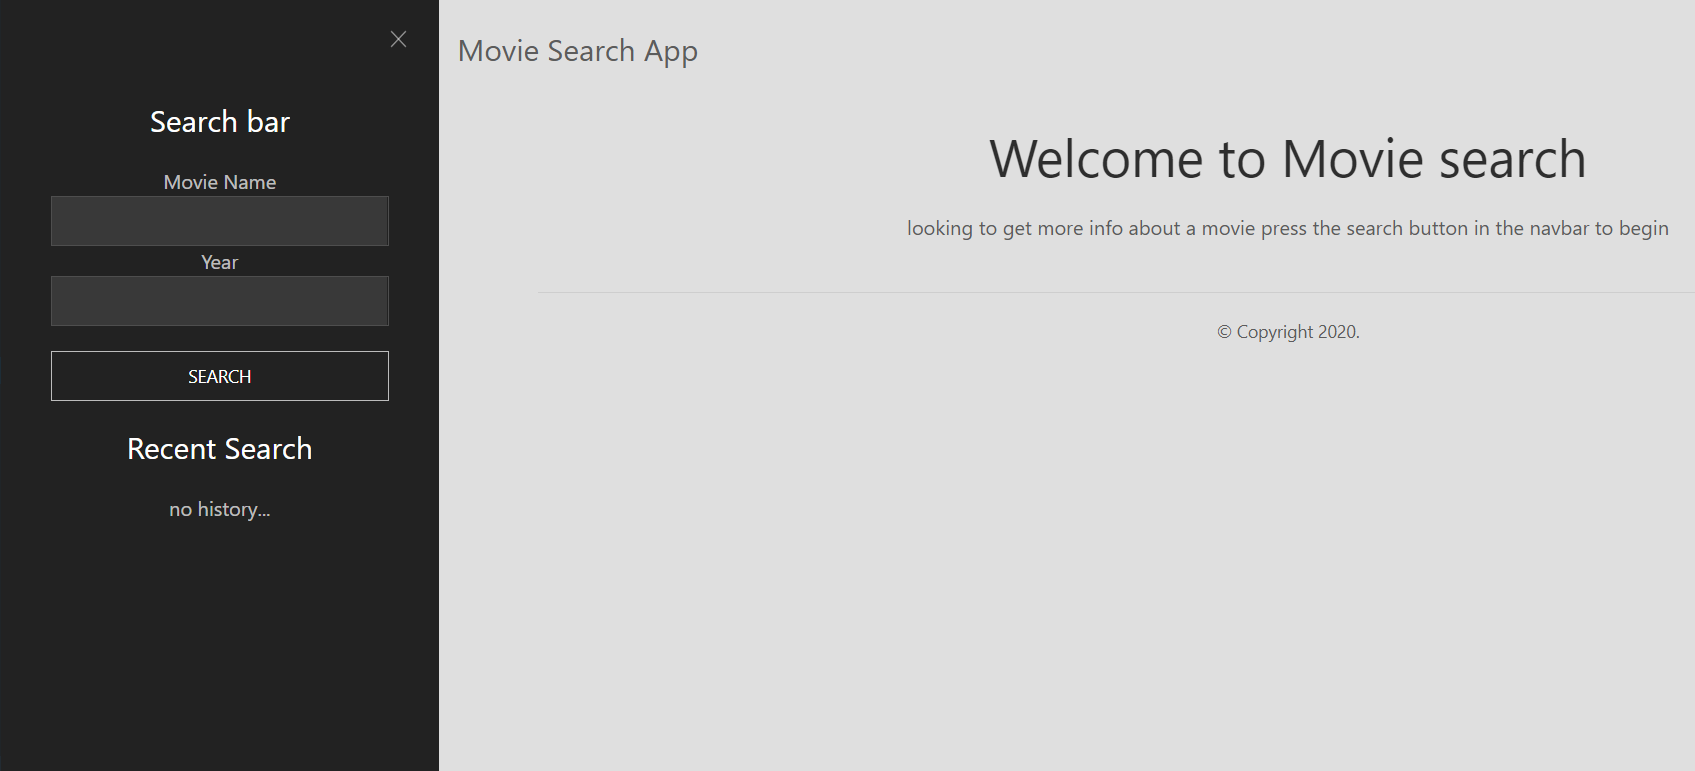
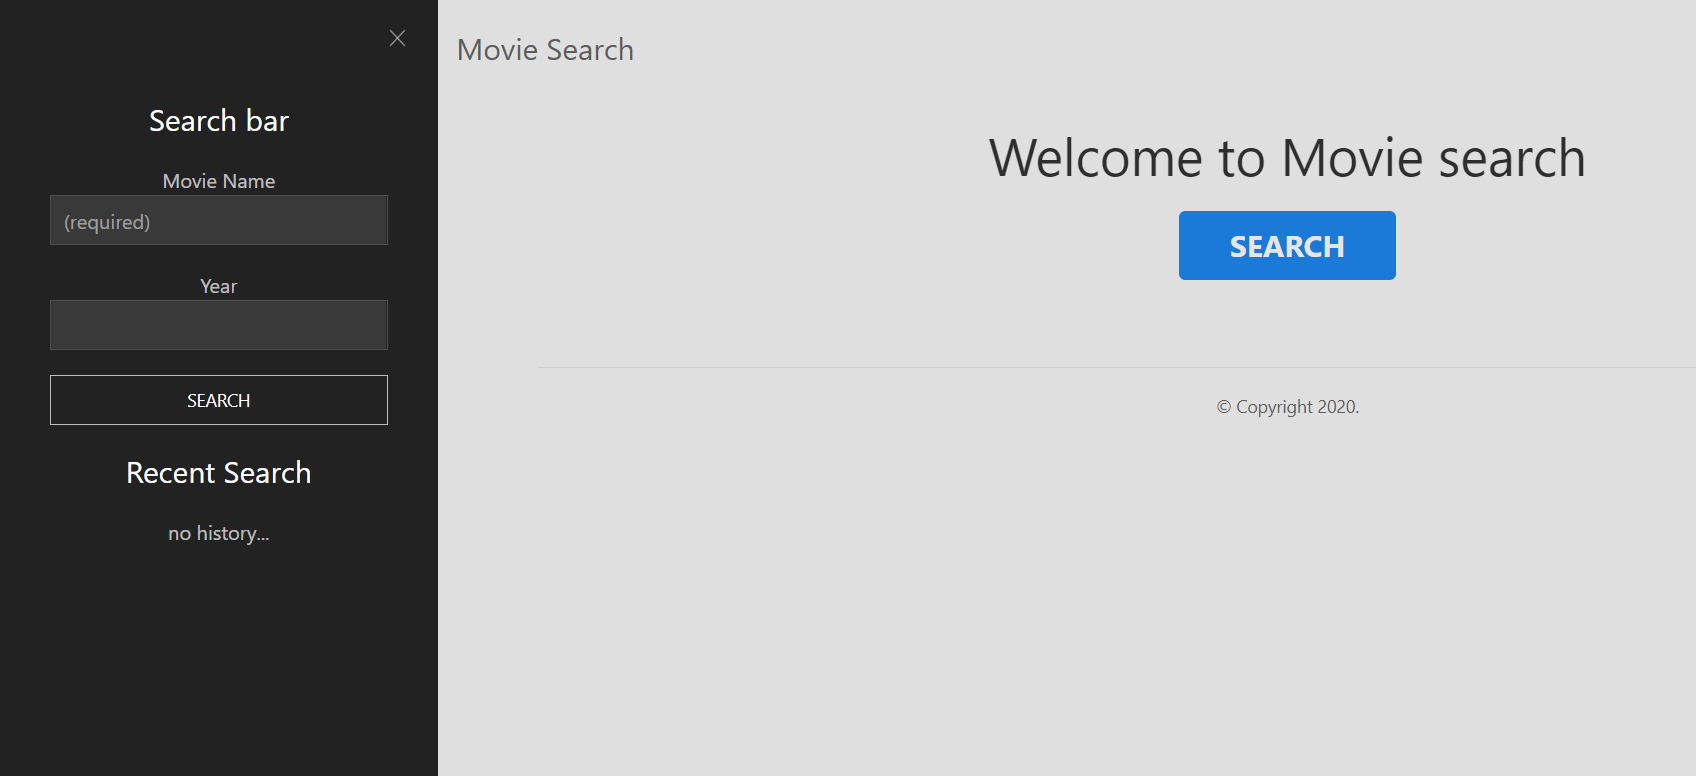
added new images and fixed the search bar displaying based on screen size

diff --git a/assets/js/script.js b/assets/js/script.js
@@ -8,27 +8,34 @@ $(document).ready(function () {
 
   //load local storage data if avalable
   loadData();
+  console.log(screen.width);
   //When the search button is clicked it gets the giphy and the movies
   $("#search").on("click", function (e) {
     //e.preventDefault();
     year = $("#year").val().toLowerCase().trim();
     movie = $("#name").val().toLowerCase().trim();
-    if(movie !=""){
-      //UIkit.offcanvas(searchBar).hide();
+    if (movie != "") {
+      if (screen.width < 500) {
+        UIkit.offcanvas(searchBar).hide();
+      }
     }
 
     getMovie(movie, year);
-    $()
-    
+    $();
   });
 
-  function getMovie(movie, year){
-    if(parseInt(year))
-    {
-      movieUrl = "https://www.omdbapi.com/?apikey=" + apikey + "&s=" + movie + "&y=" + year;
-    }else{
+  function getMovie(movie, year) {
+    if (parseInt(year)) {
+      movieUrl =
+        "https://www.omdbapi.com/?apikey=" +
+        apikey +
+        "&s=" +
+        movie +
+        "&y=" +
+        year;
+    } else {
       movieUrl = "https://www.omdbapi.com/?apikey=" + apikey + "&s=" + movie;
-    };
+    }
 
     $.ajax({
       url: movieUrl,
@@ -76,7 +83,8 @@ $(document).ready(function () {
 
   // The details of the movie is been displayed
   function getDetails(imdb) {
-    var movieDetUrl = "https://www.omdbapi.com/?apikey=" + apikey + "&i=" + imdb;
+    var movieDetUrl =
+      "https://www.omdbapi.com/?apikey=" + apikey + "&i=" + imdb;
 
     $.ajax({
       url: movieDetUrl,
@@ -118,10 +126,10 @@ $(document).ready(function () {
   }
   //   saves data to local storage
   function saveData(movie) {
-    for(var i=0;i <movies.length; i++){
-        if(movie === movies[i]){
-            movies.splice (i, 1);
-        }
+    for (var i = 0; i < movies.length; i++) {
+      if (movie === movies[i]) {
+        movies.splice(i, 1);
+      }
     }
     movies.unshift(movie);
     localStorage.setItem("movies", JSON.stringify(movies));
@@ -142,8 +150,8 @@ $(document).ready(function () {
   //render movie search
   function renderRcentSearch() {
     $("#recent-search").text("");
-    if(movies.length>5){
-        movies.length = 5;
+    if (movies.length > 5) {
+      movies.length = 5;
     }
     for (var i = 0; i < movies.length; i++) {
       var movie = $("<a>");
@@ -153,12 +161,14 @@ $(document).ready(function () {
     }
   }
 
-  $("#recent-search").click(function(e){
-      getMovie(e.target.textContent);
-      //UIkit.offcanvas(searchBar).hide()
-  })
+  $("#recent-search").click(function (e) {
+    getMovie(e.target.textContent);
+    if (screen.width < 500) {
+      UIkit.offcanvas(searchBar).hide();
+    }
+  });
 
-  $("#name").click(function(){
+  $("#name").click(function () {
     $("#name").val("");
-  })
+  });
 });

diff --git a/README.md b/README.md
@@ -14,11 +14,13 @@ The movie is displayed with related giphy images by its side and some more relat
 
 When the web page is opened this is what is displayed.
 
+To search for a movie click on the blue search button.
+
 ![landing page](assets/images/g32.PNG)
 
 ## To search
 
-To search for a movie click on the search button on the top right corner of the navigation bar.
+Input the name of the movie in the Movie Name search field, and/or the year in the year search field. 
 
 ![Search](assets/images/g33.PNG)
 
